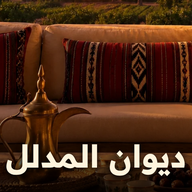
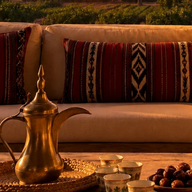
أيقونة ديوان المدلل بدون كتابة
Claude-Session: https://claude.ai/code/session_018bM31bBobd6RFpyZhZS5uX

diff --git a/public/games/index.html b/public/games/index.html
@@ -77,13 +77,13 @@ main{position:relative;z-index:1;max-width:560px;margin:0 auto;padding:0 max(16p
 <meta property="og:title" content="ديوان المدلل">
 <meta property="og:description" content="ألعاب وقيود الربع في مكان واحد: مافيا، برلمان، بلوت، هند.">
 <meta property="og:url" content="https://ha-games.habeeb3.workers.dev/games/">
-<meta property="og:image" content="https://ha-games.habeeb3.workers.dev/og.jpg?v=1">
+<meta property="og:image" content="https://ha-games.habeeb3.workers.dev/og.jpg?v=2">
 <meta property="og:image:width" content="1200">
 <meta property="og:image:height" content="630">
 <meta property="og:locale" content="ar_KW">
 <meta name="twitter:card" content="summary_large_image">
-<meta name="twitter:image" content="https://ha-games.habeeb3.workers.dev/og.jpg?v=1">
-<link rel="apple-touch-icon" href="/apple-touch-icon.png?v=1">
+<meta name="twitter:image" content="https://ha-games.habeeb3.workers.dev/og.jpg?v=2">
+<link rel="apple-touch-icon" href="/apple-touch-icon.png?v=2">
 <link rel="icon" href="/app-icon-192.png?v=1" type="image/png" sizes="192x192">
 <meta name="apple-mobile-web-app-title" content="ديوان المدلل">
 </head>

diff --git a/public/index.html b/public/index.html
@@ -50,13 +50,13 @@ nav{display:flex;flex-direction:column;gap:16px;margin-top:6px}
 <meta property="og:title" content="ديوان المدلل">
 <meta property="og:description" content="ألعاب وقيود الربع في مكان واحد: مافيا، برلمان، بلوت، هند.">
 <meta property="og:url" content="https://ha-games.habeeb3.workers.dev/">
-<meta property="og:image" content="https://ha-games.habeeb3.workers.dev/og.jpg?v=1">
+<meta property="og:image" content="https://ha-games.habeeb3.workers.dev/og.jpg?v=2">
 <meta property="og:image:width" content="1200">
 <meta property="og:image:height" content="630">
 <meta property="og:locale" content="ar_KW">
 <meta name="twitter:card" content="summary_large_image">
-<meta name="twitter:image" content="https://ha-games.habeeb3.workers.dev/og.jpg?v=1">
-<link rel="apple-touch-icon" href="/apple-touch-icon.png?v=1">
+<meta name="twitter:image" content="https://ha-games.habeeb3.workers.dev/og.jpg?v=2">
+<link rel="apple-touch-icon" href="/apple-touch-icon.png?v=2">
 <link rel="icon" href="/app-icon-192.png?v=1" type="image/png" sizes="192x192">
 <meta name="apple-mobile-web-app-title" content="ديوان المدلل">
 </head>

diff --git a/public/baloot/index.html b/public/baloot/index.html
@@ -17,13 +17,13 @@
 <meta property="og:title" content="ديوان المدلل">
 <meta property="og:description" content="قيد البلوت لنا ولهم.">
 <meta property="og:url" content="https://ha-games.habeeb3.workers.dev/baloot/">
-<meta property="og:image" content="https://ha-games.habeeb3.workers.dev/og.jpg?v=1">
+<meta property="og:image" content="https://ha-games.habeeb3.workers.dev/og.jpg?v=2">
 <meta property="og:image:width" content="1200">
 <meta property="og:image:height" content="630">
 <meta property="og:locale" content="ar_KW">
 <meta name="twitter:card" content="summary_large_image">
-<meta name="twitter:image" content="https://ha-games.habeeb3.workers.dev/og.jpg?v=1">
-<link rel="apple-touch-icon" href="/apple-touch-icon.png?v=1">
+<meta name="twitter:image" content="https://ha-games.habeeb3.workers.dev/og.jpg?v=2">
+<link rel="apple-touch-icon" href="/apple-touch-icon.png?v=2">
 <link rel="icon" href="/app-icon-192.png?v=1" type="image/png" sizes="192x192">
 <meta name="apple-mobile-web-app-title" content="ديوان المدلل">
 </head>

diff --git a/public/hand/index.html b/public/hand/index.html
@@ -38,13 +38,13 @@
 <meta property="og:title" content="ديوان المدلل">
 <meta property="og:description" content="قيد الهند.">
 <meta property="og:url" content="https://ha-games.habeeb3.workers.dev/hand/">
-<meta property="og:image" content="https://ha-games.habeeb3.workers.dev/og.jpg?v=1">
+<meta property="og:image" content="https://ha-games.habeeb3.workers.dev/og.jpg?v=2">
 <meta property="og:image:width" content="1200">
 <meta property="og:image:height" content="630">
 <meta property="og:locale" content="ar_KW">
 <meta name="twitter:card" content="summary_large_image">
-<meta name="twitter:image" content="https://ha-games.habeeb3.workers.dev/og.jpg?v=1">
-<link rel="apple-touch-icon" href="/apple-touch-icon.png?v=1">
+<meta name="twitter:image" content="https://ha-games.habeeb3.workers.dev/og.jpg?v=2">
+<link rel="apple-touch-icon" href="/apple-touch-icon.png?v=2">
 <link rel="icon" href="/app-icon-192.png?v=1" type="image/png" sizes="192x192">
 <meta name="apple-mobile-web-app-title" content="ديوان المدلل">
 </head>
